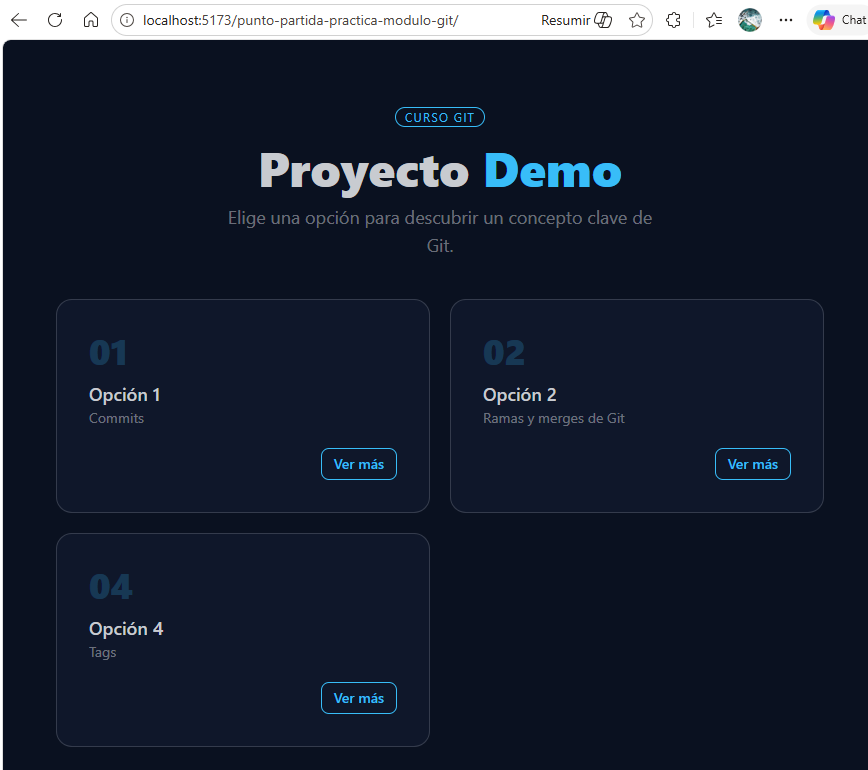
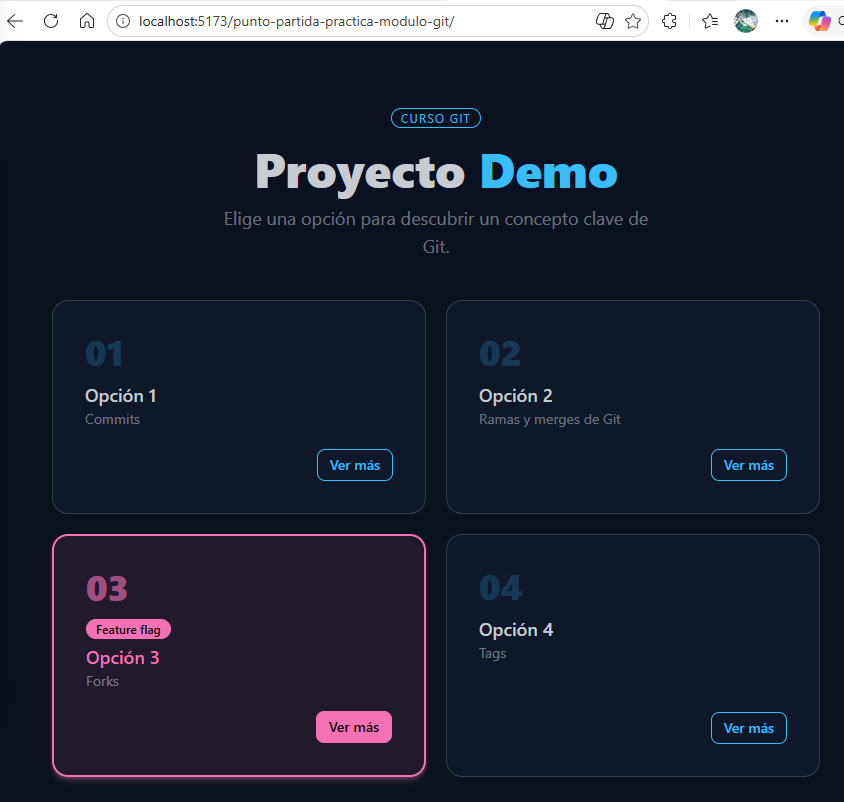
`feat: añadir Opción 5 y actualizar descripción de Opción 3`

diff --git a/src/app.tsx b/src/app.tsx
@@ -25,7 +25,7 @@ const OPTIONS: Option[] = [
   {
     id: 3,
     title: "Opción 3",
-    description: "Forks",
+    description: "Flujo de trabajo",
     message:
       "Un fork es una copia de un repositorio en tu cuenta. Puedes proponer cambios al original mediante un Pull Request.",
     featureFlag: true,
@@ -38,6 +38,14 @@ const OPTIONS: Option[] = [
       "Un tag es una referencia fija a un commit. Se usa para marcar versiones: v1.0.0, v2.3.1…",
     featureFlag: false,
   },
+  {
+  id: 5,
+  title: "Opción 5",
+  description: "Pull Request",
+  message:
+    "Una Pull Request es una propuesta formal para incorporar cambios de una rama a otra. Permite revisar el código antes de mergear y deja un historial claro de qué se hizo y por qué.",
+  featureFlag: false,
+},
 ];
 
 export default function App() {

diff --git a/DIARIO.md b/DIARIO.md
@@ -69,33 +69,19 @@ Upstream sirve para mantener tu fork actualizado con los cambios del repositorio
 ---
 ### Tarea 2 — Feature branch A: añadir la Opción 5
 
-Esta rama parte de `dev`.
+Primero compruebo que estoy en dev y creo la rama featur/opcion-5 a partir de dev, a continuación añado a la tarjeta propuesta (opcion-5) y modifico la descripcion de la tarjeta.
 
-1. Crea la rama `feature/opcion-5` desde `dev`.
-2. Abre `src/app.tsx` y añade la siguiente tarjeta al array `OPTIONS`:
+> **Diario:** Explica por qué la rama parte de `dev` y no de `main`.
 
-```tsx
-{
-  id: 5,
-  title: "Opción 5",
-  description: "Pull Request",
-  message:
-    "Una Pull Request es una propuesta formal para incorporar cambios de una rama a otra. Permite revisar el código antes de mergear y deja un historial claro de qué se hizo y por qué.",
-  featureFlag: false,
-},
-```
 
-3. Además, cambia el campo `description` de la **Opción 3** de su valor actual a:
+En un flujo de trabajo profesional basado en Git Flow, cada rama tiene un propósito muy definido:
 
-```tsx
-description: "Flujo de trabajo",
-```
+* **main:** código estable en producción. Contiene solo versiones finales. No se desarrolla nada directamente aquí. Cada commit en main debería corresponder a una release o un hotfix. Es la rama que se despliega.
 
-4. Arranca la app y verifica en el navegador que aparece la Opción 5.
-5. Haz un commit con el mensaje: `feat: añadir Opción 5 y actualizar descripción de Opción 3`
-6. Sube la rama a tu fork.
 
-> **Diario:** Explica por qué la rama parte de `dev` y no de `main`. Adjunta la captura 3.
+* **dev:** rama de integración de nuevas funcionalidades. Es donde se juntan todas las features. Aquí se prueba, integra y valida el desarrollo. Es el “campo de pruebas” antes de preparar una release. Todas las features deben nacer desde dev, porque es la rama donde se integra el desarrollo activo.
+
+![Descripción de la imagen](capturas/tarea2.png)
 
 ---
 
